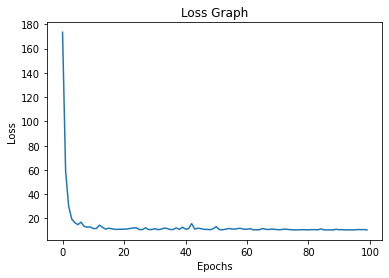
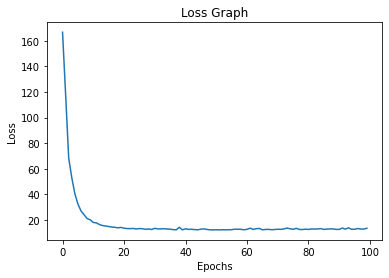
Update train test split

diff --git a/README.md b/README.md
@@ -1,7 +1,3 @@
-# 神经网络实验报告
-
-复旦大学 王少文 大二
-
 ```python
 import matplotlib.pyplot as plt
 import numpy as np
@@ -44,9 +40,9 @@ ax.set_zlabel("z")
 
 
 
-    
+    
 ![png](output_4_1.png)
-    
+    
 
 
 ### 线性回归模型训练
@@ -100,14 +96,14 @@ ax.plot(mlm_data.x, mlm_data.y, predicted_z, c="red", alpha=0.6)
 
 
 
-    [<mpl_toolkits.mplot3d.art3d.Line3D at 0x116ef4820>]
+    [<mpl_toolkits.mplot3d.art3d.Line3D at 0x12984d6d0>]
 
 
 
 
-    
+    
 ![png](output_10_1.png)
-    
+    
 
 
 #### 最后，我们计算数据的平均绝对值差来评估模型
@@ -147,7 +143,7 @@ iris_data.head()
     .dataframe tbody tr th {
         vertical-align: top;
     }
-    
+
     .dataframe thead th {
         text-align: right;
     }
@@ -212,6 +208,8 @@ iris_data.head()
 
 #### 数据预处理
 
+并分出测试集和训练集
+
 
 ```python
 def get_class(name: str):
@@ -264,12 +262,27 @@ iris_data.hist()
 
 
 
-    
+    
 ![png](output_16_1.png)
-    
+    
 
 
 #### 下面写多分类神经网络
+
+
+```python
+from sklearn.preprocessing import normalize
+from sklearn.model_selection import train_test_split
+```
+
+
+```python
+x_data = iris_data[["sepal length", "sepal width", "petal length","petal width"]].to_numpy()
+y_data = iris_data[["is0", "is1", "is2"]].to_numpy()
+x_data = normalize(X=x_data, axis=1)
+y_data = normalize(X=y_data, axis=1)
+x_train, x_test, y_train, y_test = train_test_split(x_data,y_data,test_size=0.33,random_state=0)
+```
 
 
 ```python
@@ -288,19 +301,6 @@ def back_sigmoid(y):
 def softmax(x):
     e_x = np.exp(x - np.max(x))
     return (e_x.T/e_x.sum(axis=1)).T
-```
-
-
-```python
-from sklearn.preprocessing import normalize
-```
-
-
-```python
-x_data = iris_data[["sepal length", "sepal width", "petal length","petal width"]].to_numpy()
-y_data = iris_data[["is0", "is1", "is2"]].to_numpy()
-x_data = normalize(X=x_data, axis=1)
-y_data = normalize(X=y_data, axis=1)
 ```
 
 
@@ -338,7 +338,7 @@ class multi_classifier:
         self.w2 -= lr * self.dw2
         self.b2 -= lr * self.db2
 
-    def train(self, x, y, lr=0.2, batch_size=10, max_epoch=10000, max_iteration=100,times=100):
+    def train(self, x, y, lr=0.1, batch_size=10, max_epoch=10000, max_iteration=100,times=100):
         loss = 0
         for epoch in range(max_epoch):
             m = x.shape[0]
@@ -356,7 +356,7 @@ class multi_classifier:
             if epoch%times==0:
                 self.loss_arr.append(cross_entropy(y_data,self.forward(x_data)).sum())
 model = multi_classifier(4, 10, 3)
-model.train(x_data, y_data)
+model.train(x_train, y_train)
 ```
 
 
@@ -375,26 +375,26 @@ plt.xlabel("Epochs")
 
 
 
-    
+    
 ![png](output_22_1.png)
-    
+    
 
 
 #### 由上图可以看出，该神经网络已经能取得比较好的收敛效果，loss稳定在较低的水平，下面计算准确率
 
 
 ```python
-y_predict=model.forward(x_data)
+y_predict=model.forward(x_test)
 y_predict=np.around(y_predict)
-y_iferror = np.abs(y_predict-y_data).sum(axis=0)
+y_iferror = np.abs(y_predict-y_test).sum(axis=0)
 error_rate = y_iferror/y_data.shape[0]
 for i in range(3):
     print(f"model has the accuracy rate of {(1-error_rate)[i]:0.3} in predicting class {i+1}")
 ```
 
     model has the accuracy rate of 1.0 in predicting class 1
-    model has the accuracy rate of 0.967 in predicting class 2
-    model has the accuracy rate of 0.967 in predicting class 3
+    model has the accuracy rate of 0.987 in predicting class 2
+    model has the accuracy rate of 0.987 in predicting class 3
 
 
-可见，该模型也有较高的准确率
+可见，该模型有较高的准确率
